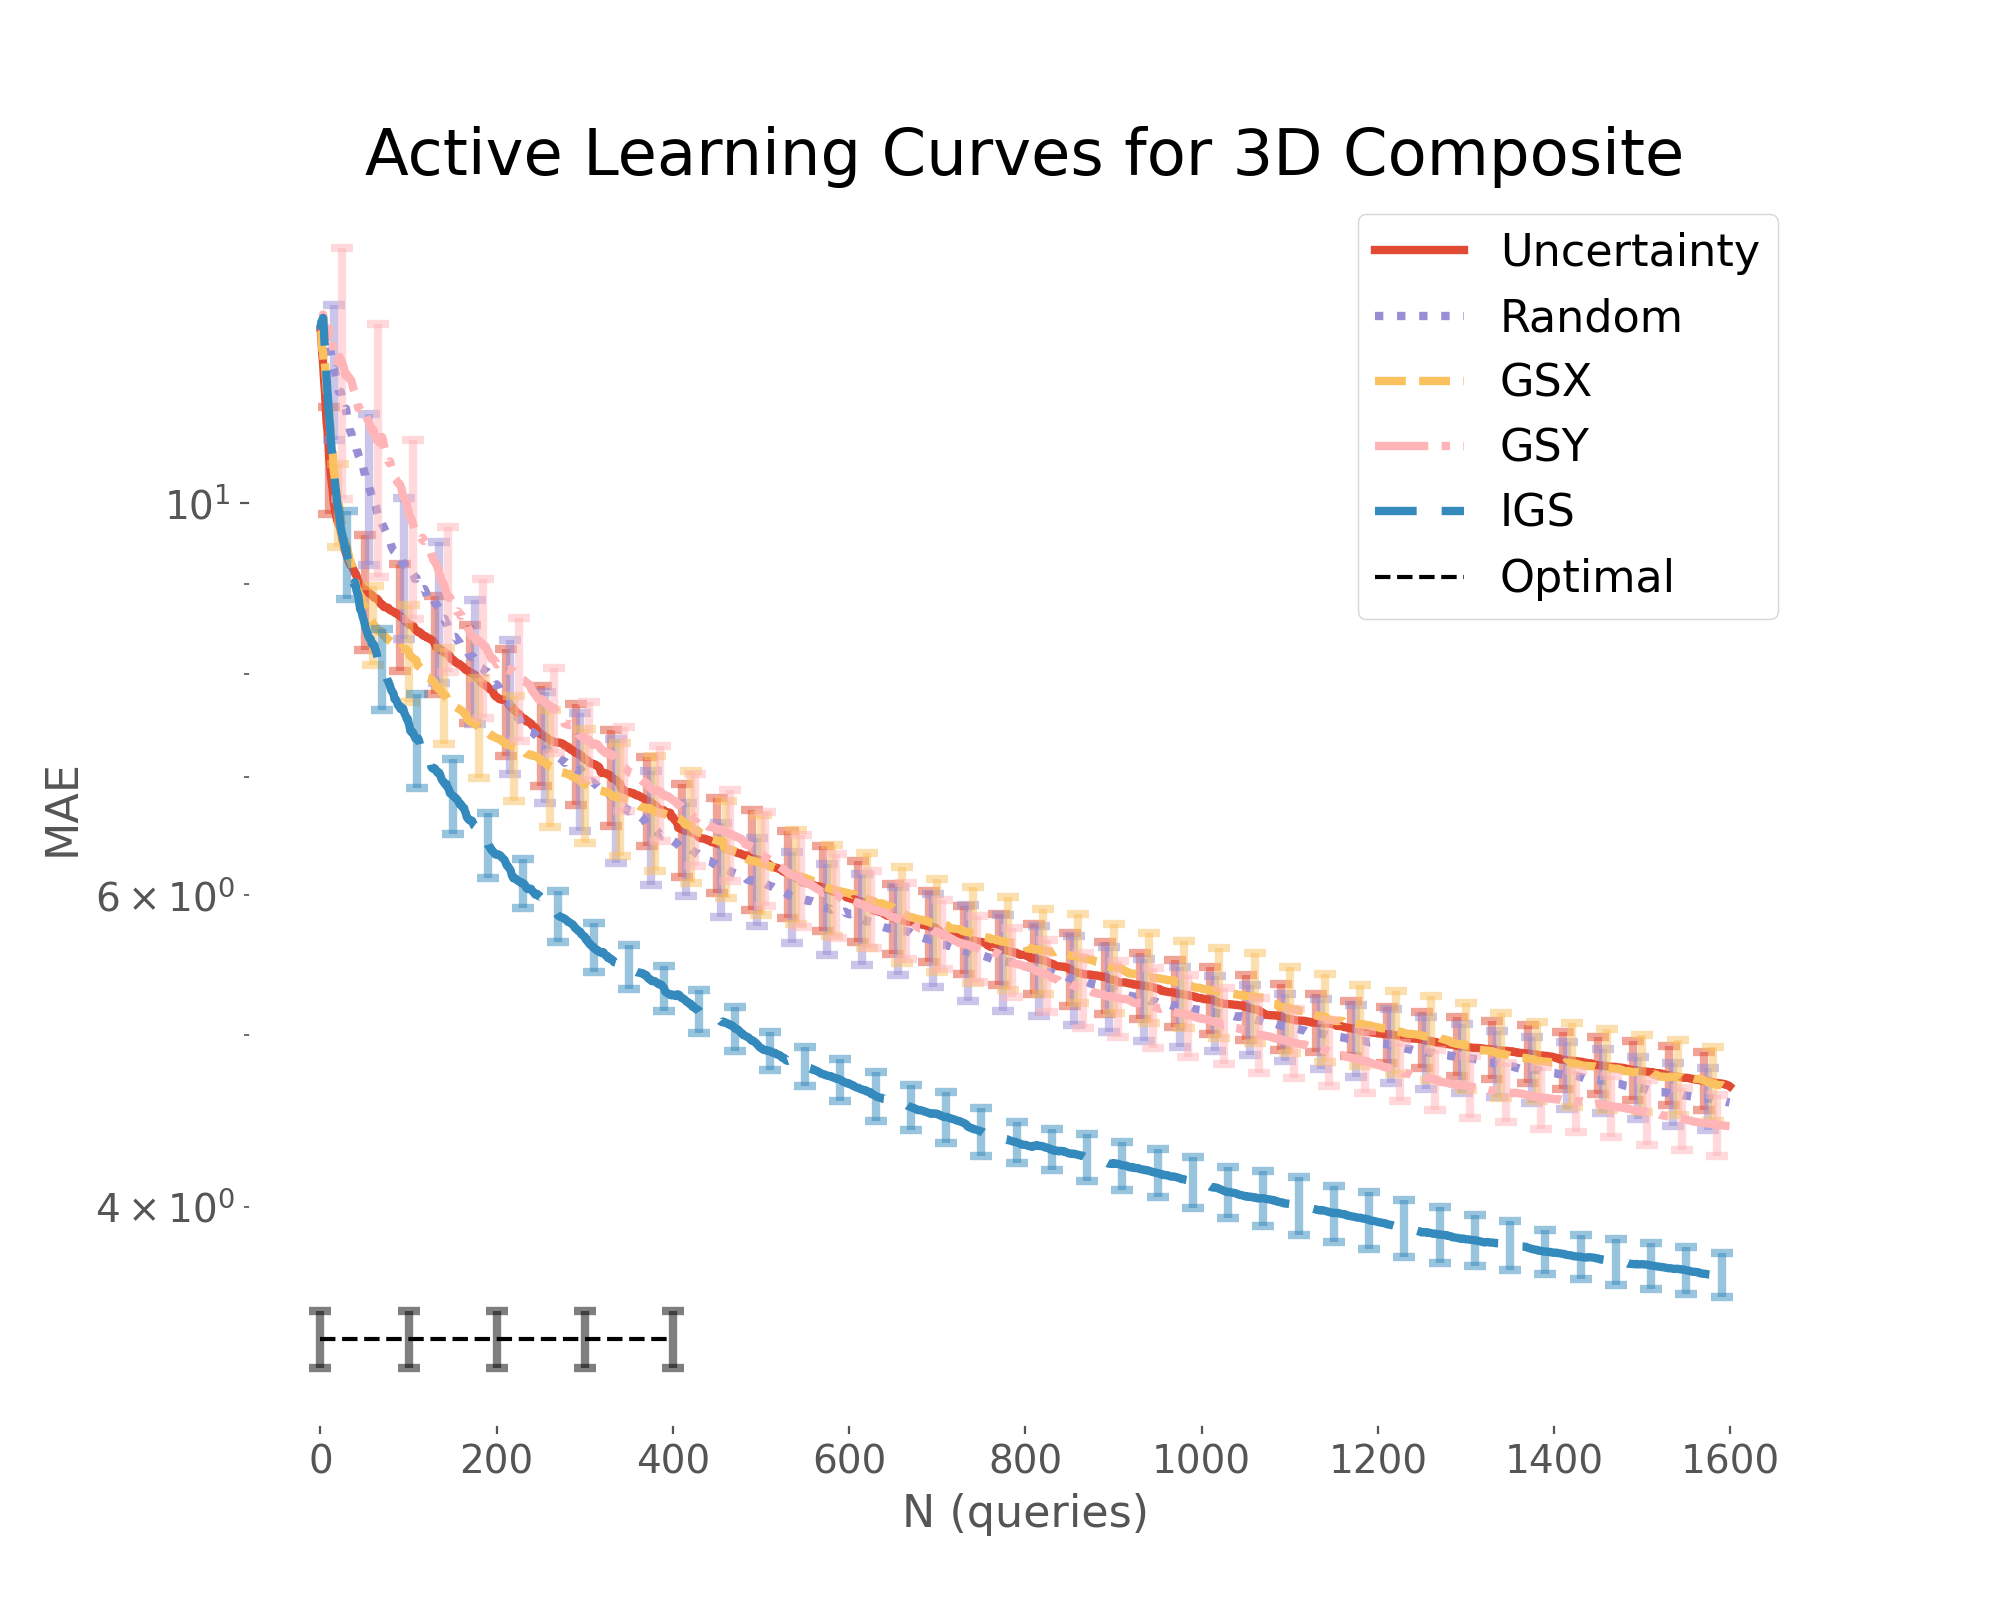
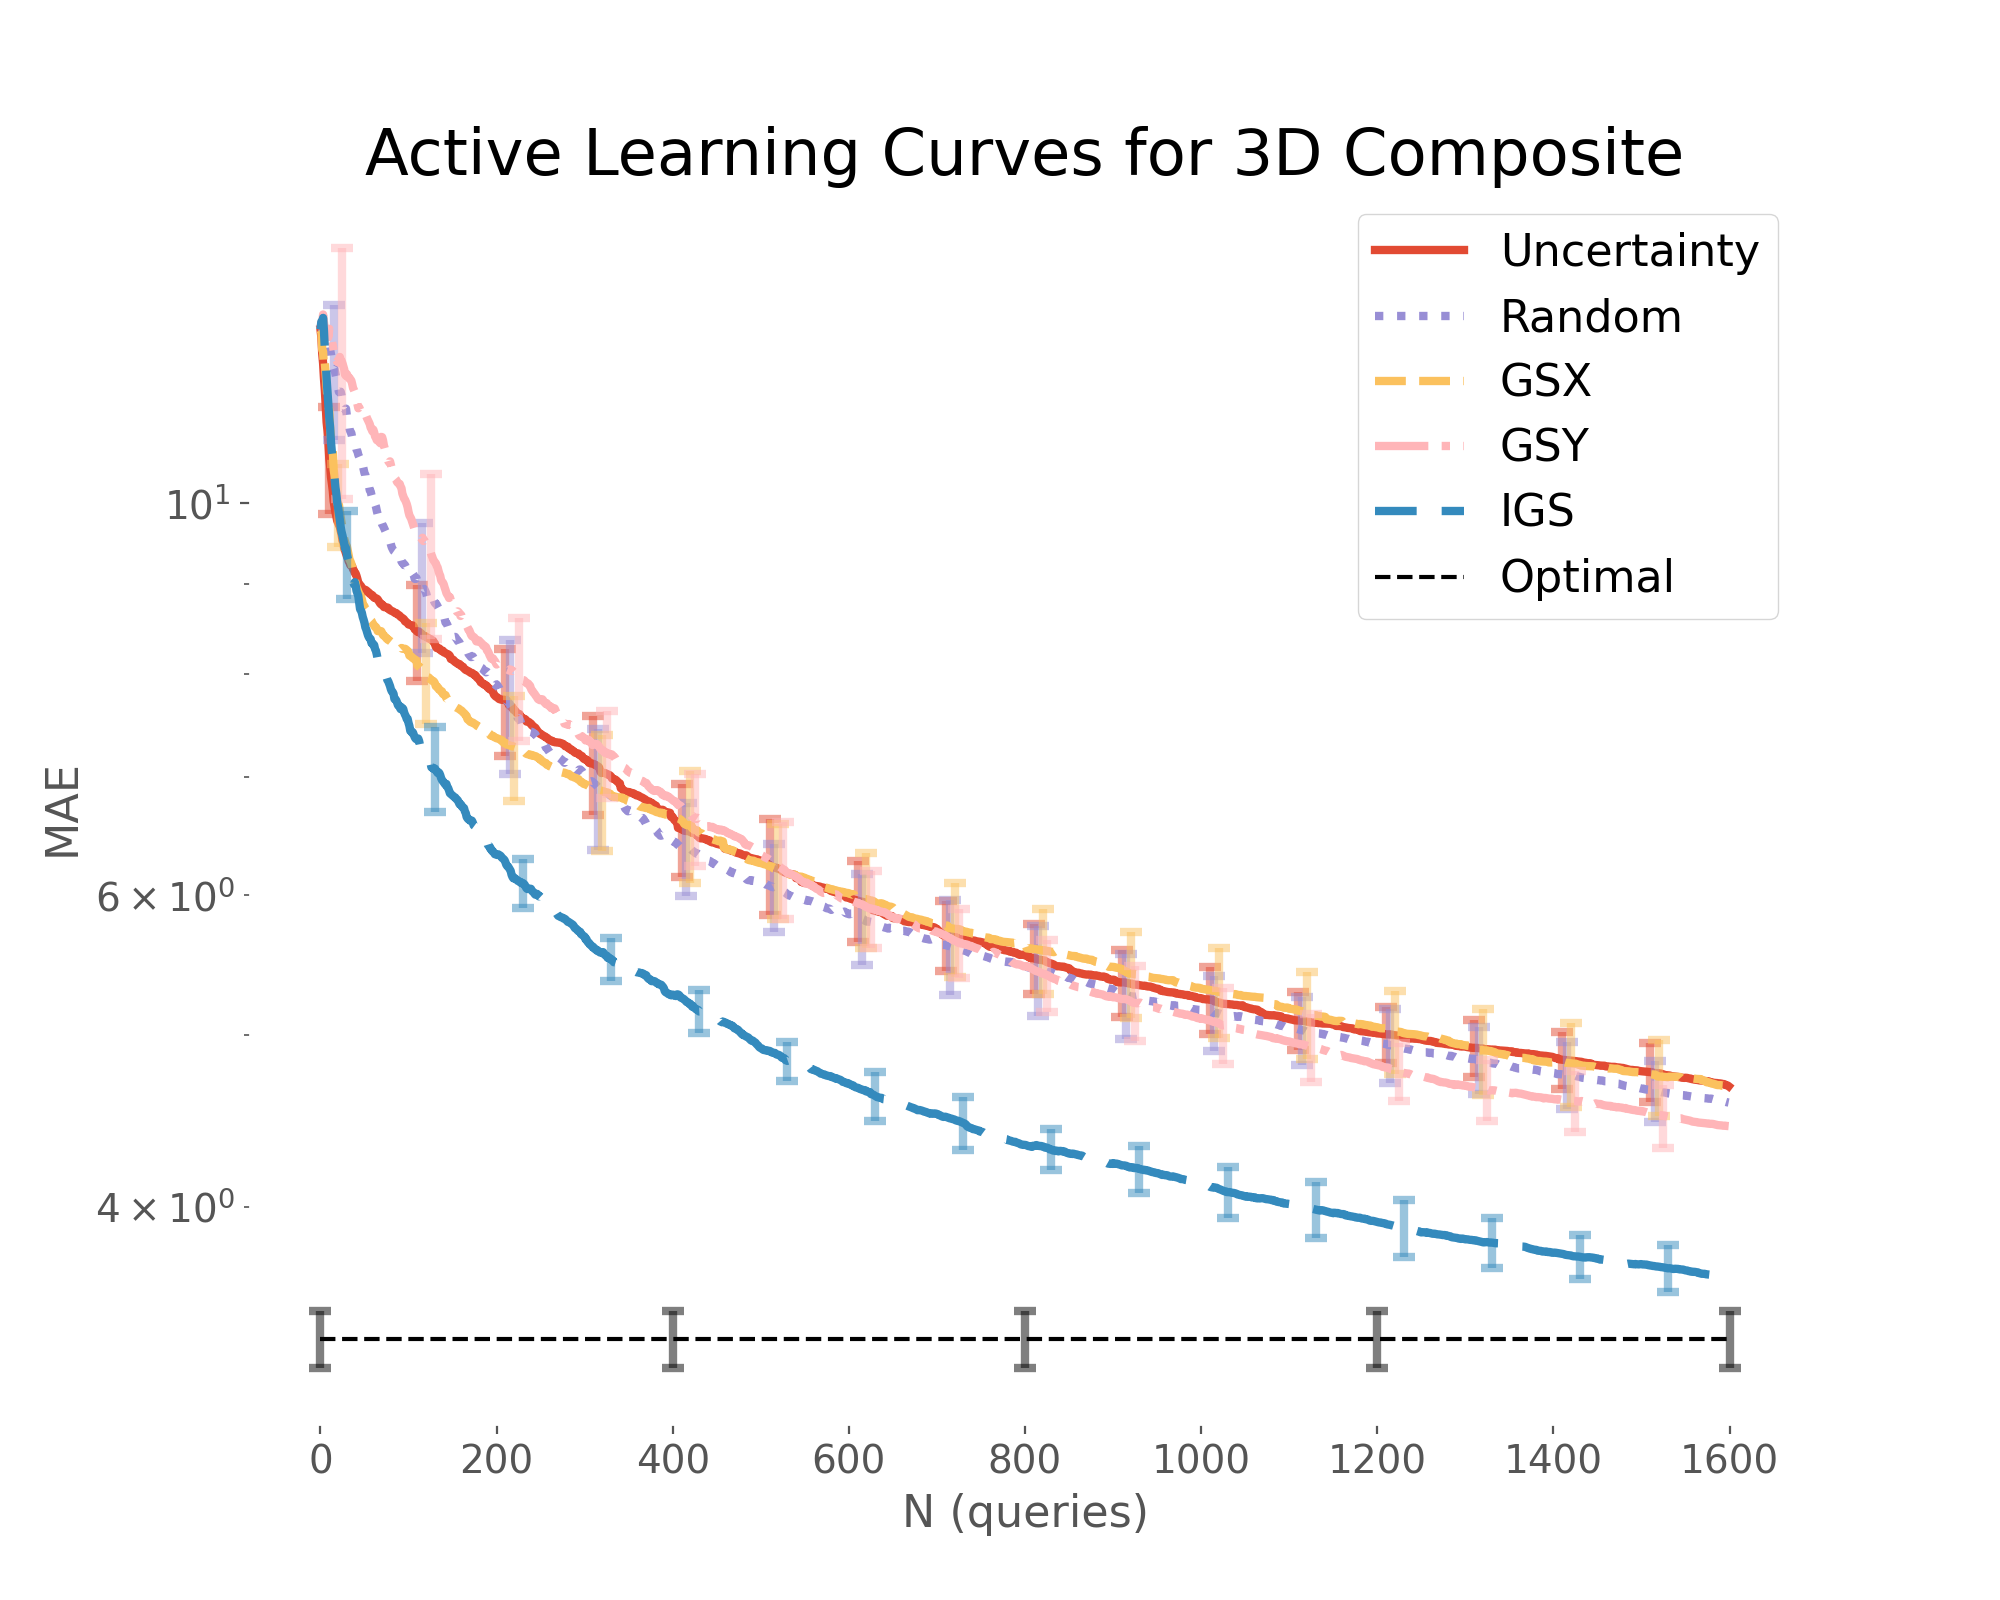
Use non-log plot for active learning

diff --git a/3D/plot.md b/3D/plot.md
@@ -78,7 +78,7 @@ def plot_scores(scores, opt=None, opt_error=None, error_freq=20, scoring='mse', 
         offset += 5
         
     if opt is not None:
-        xx = [0, 100, 200, 300, 400]
+        xx = [0, 400, 800, 1200, 1600]
         yy = [opt] * len(xx)
         ee = [opt_error] * len(xx)
         
@@ -108,7 +108,7 @@ err = np.std(overall_scores)
 ```
 
 ```python
-plt, ax = plot_scores(output, error_freq=40, opt=opt, opt_error=err, scoring=scoring, ylog=ylog)
+plt, ax = plot_scores(output, error_freq=100, opt=opt, opt_error=err, scoring=scoring, ylog=ylog)
 plt.title('Active Learning Curves for 3D Composite')
 plt.savefig(output_file, dpi=200)
 ```
